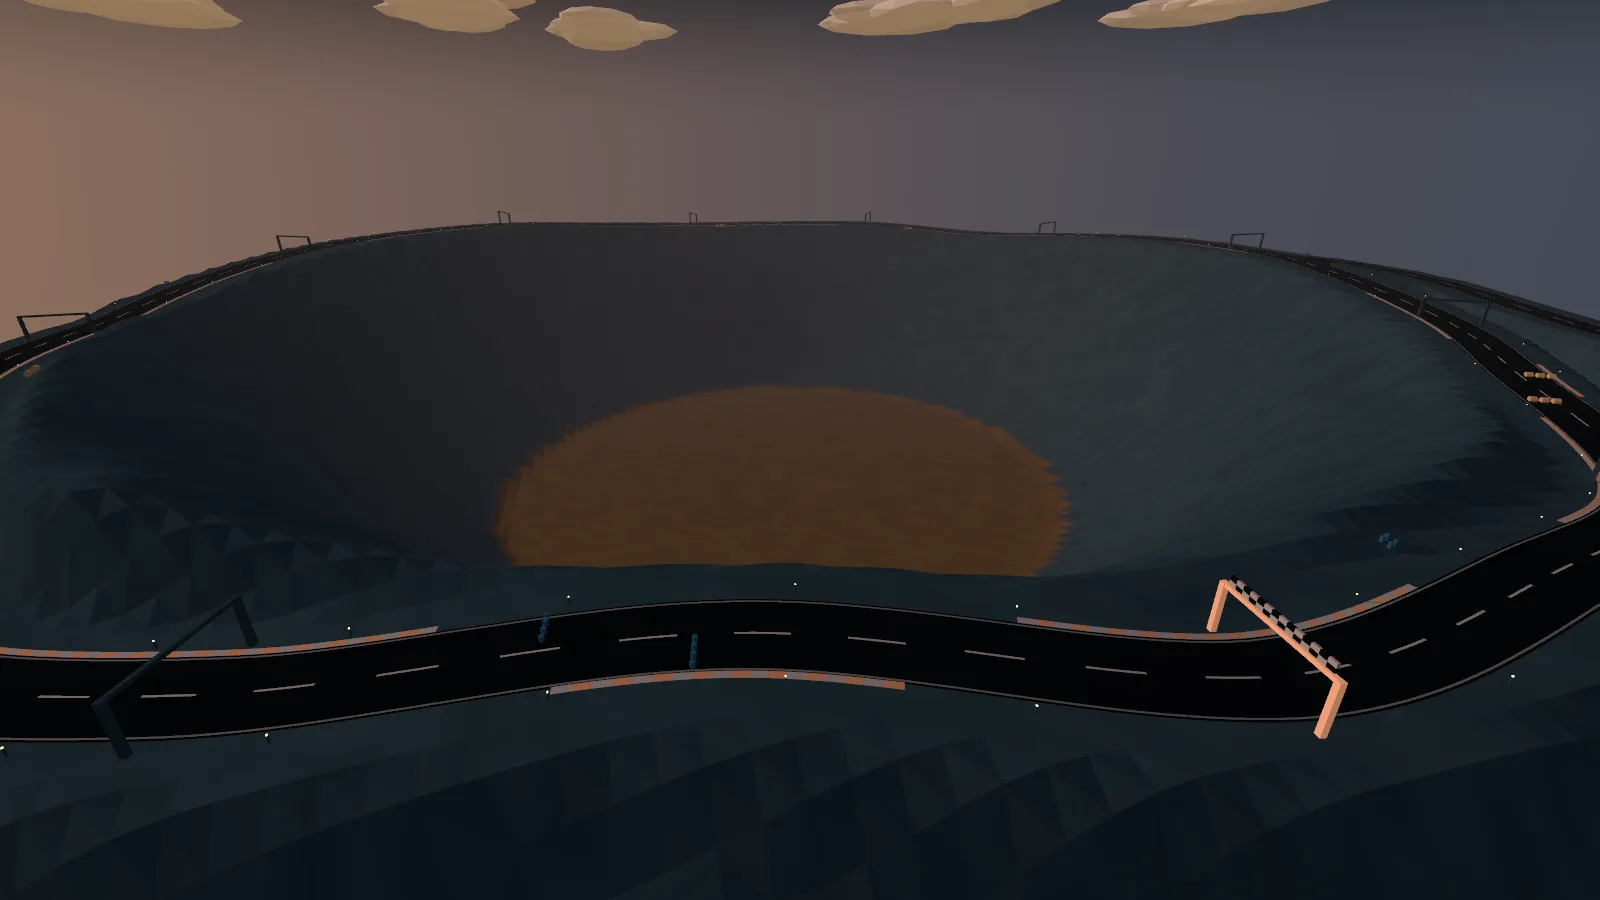
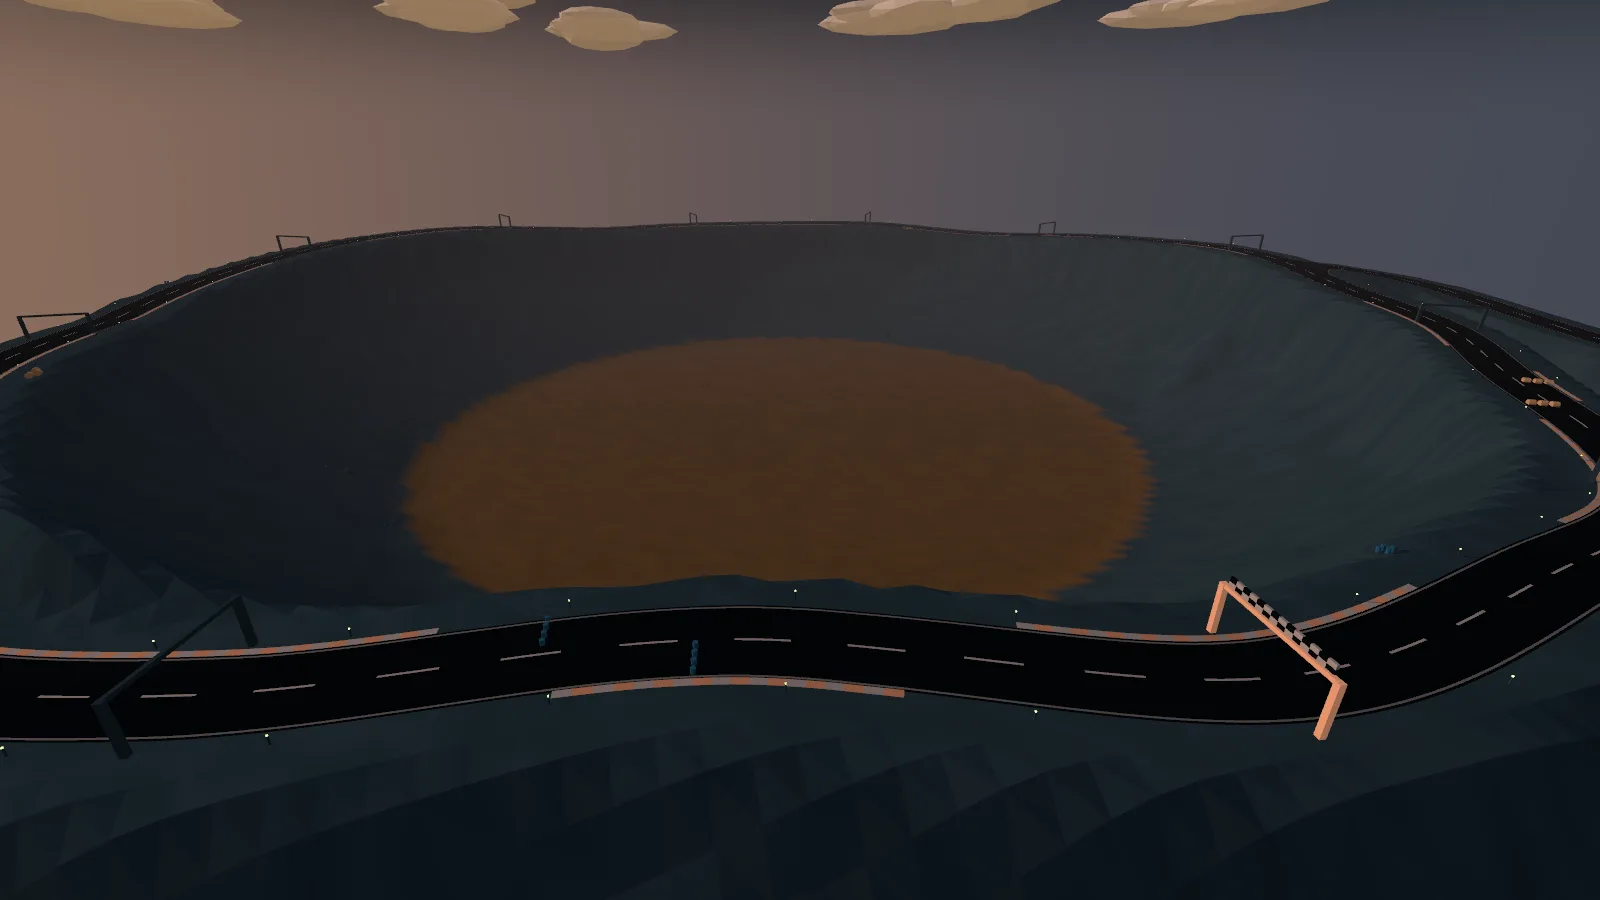
fix: lava in the volcano crater shows from the rim lap
- Crater wall climbs as t² instead of smoothstep: steepest at the rim, so the inner lip no longer hides the floor
- Volcano crater floor 0.5 -> 0.6, depth 70 -> 50: wider, nearer lava lake
- Volcano version 4 -> 5, goldens and menu pictures regenerated

diff --git a/src/worldgen/recipe.ts b/src/worldgen/recipe.ts
@@ -44,9 +44,9 @@ export interface PeakLayer {
 
 /**
  * A crater in the middle of the map, rim `radius` metres out. Inside `floor` of the radius the ground lies flat, `depth`
- * metres under the mean height of the layers before it round the rim; the wall climbs back to the land at the rim, which
- * stands `lip` metres proud, easing to nothing `lip_width` metres either side of it. Lava fills the floor `lava` metres
- * deep; 0 leaves it dry.
+ * metres under the mean height of the layers before it round the rim; the wall climbs back to the land at the rim,
+ * steepest at the top so the rim road looks down past it onto the floor. The rim stands `lip` metres proud, easing to
+ * nothing `lip_width` metres either side of it. Lava fills the floor `lava` metres deep; 0 leaves it dry.
  */
 export interface CraterLayer {
   kind: "crater";
@@ -518,7 +518,7 @@ export const VOLCANO: Recipe = {
     hills(30),
     ridges(10),
     { kind: "peak", height: 260, radius: 900, reach: 0 },
-    { kind: "crater", radius: 200, floor: 0.5, depth: 70, lip: 8, lip_width: 30, lava: 1 },
+    { kind: "crater", radius: 200, floor: 0.6, depth: 50, lip: 8, lip_width: 30, lava: 1 },
     shore(960, -9),
   ],
   biomes: {

diff --git a/src/worldgen/kinds/kinds.test.ts b/src/worldgen/kinds/kinds.test.ts
@@ -122,7 +122,7 @@ test("unknown ids and names fall back to the island", () => {
 
 test("a plain map of every kind keeps its id and records key; levels at normal are plain", () => {
   const keys = Object.fromEntries(Object.values(WorldKind).map((kind) => [kind, [world_key(42, kind), map_id(plain_map(kind, 42))]]));
-  expect(keys).toEqual({ island: ["42:w11", 11], sky: ["42:sky3", 1003], desert: ["42:d4", 2004], mainland: ["42:m6", 3006], alpine: ["42:a4", 4004], tundra: ["42:t3", 5003], volcano: ["42:v4", 6004], rooftops: ["42:roof1", 8001], dunes: ["42:bd12", 9012], icecanyon: ["42:ic3", 7003] });
+  expect(keys).toEqual({ island: ["42:w11", 11], sky: ["42:sky3", 1003], desert: ["42:d4", 2004], mainland: ["42:m6", 3006], alpine: ["42:a4", 4004], tundra: ["42:t3", 5003], volcano: ["42:v5", 6005], rooftops: ["42:roof1", 8001], dunes: ["42:bd12", 9012], icecanyon: ["42:ic3", 7003] });
   for (const kind of Object.values(WorldKind)) {
     const normal = KINDS[kind].options.map((o) => o.normal);
     expect(world_key(42, kind, normal)).toBe(world_key(42, kind));

diff --git a/src/worldgen/terrain.ts b/src/worldgen/terrain.ts
@@ -247,7 +247,8 @@ function apply(seeded: Seeded, seed: number, x: number, z: number, h: number): n
     case "crater": {
       const d = Math.sqrt(x * x + z * z);
       const lipped = h + layer.lip * (1 - smoothstep(0, layer.lip_width, Math.abs(d - layer.radius)));
-      return seeded.level + (lipped - seeded.level) * smoothstep(layer.radius * layer.floor, layer.radius, d);
+      const t = Math.max(0, Math.min(1, (d - layer.radius * layer.floor) / (layer.radius * (1 - layer.floor))));
+      return seeded.level + (lipped - seeded.level) * t * t;
     }
     case "terrace":
       return terraced(h, layer);

diff --git a/src/worldgen/kinds/volcano.ts b/src/worldgen/kinds/volcano.ts
@@ -8,7 +8,7 @@ export const volcano = kind_def({
   kind: WorldKind.VOLCANO,
   base: 6000,
   tag: "v",
-  version: 4,
+  version: 5,
   size: SIZE,
   ...land_kind(VOLCANO, [], WorldKind.VOLCANO),
   options: [],
